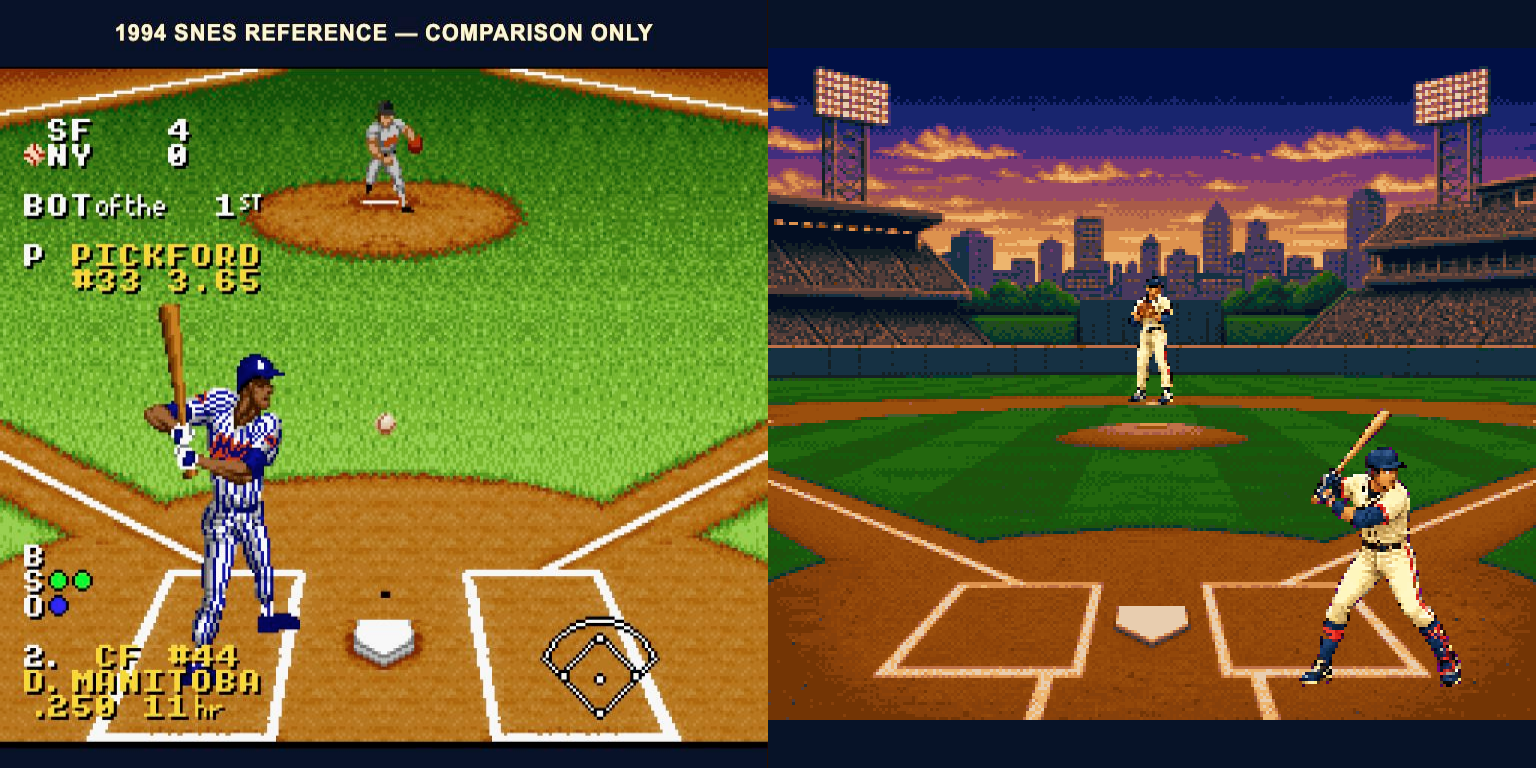
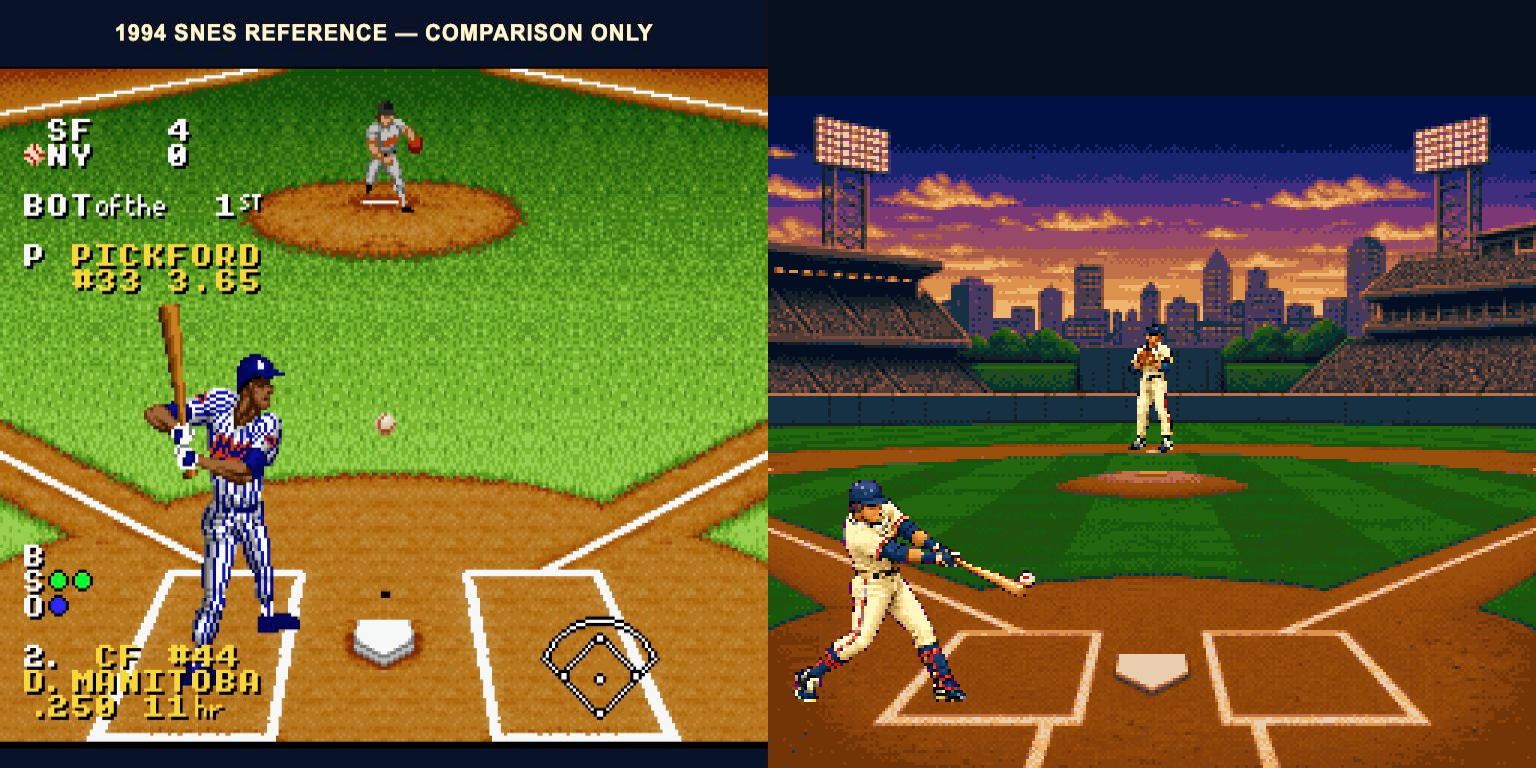
fix: align batter swing with pitch path

diff --git a/prototypes/diamond-dynasty/art-review.html b/prototypes/diamond-dynasty/art-review.html
@@ -74,7 +74,7 @@
       }
       .field-batter {
         position: absolute;
-        left: 52.734375%;
+        left: 0.390625%;
         top: 47.321429%;
         width: 46.875%;
         height: 50%;
@@ -187,7 +187,7 @@
       <section class="views" aria-label="Synchronized batter animation views">
         <figure>
           <div class="field-stage">
-            <img class="field-batter" data-live-batter src="./art/sprites/batter-0.png" alt="Animated side-back batter facing the pitcher">
+            <img class="field-batter" data-live-batter src="./art/sprites/batter-0.png" alt="Animated right-handed batter in the left box facing the pitcher">
           </div>
           <figcaption>TIGHT HOME-PLATE CAMERA — FACING THE PITCHER</figcaption>
         </figure>
@@ -221,6 +221,6 @@
 
       <p class="timing-note">Game speed uses the live swing thresholds: 70 ms load, 65 ms stride, 60 ms plant, 60 ms swing, 60 ms contact, 70 ms extension, then a readable high-finish hold before reset.</p>
     </main>
-    <script type="module" src="./src/animation-review.mjs?v=3"></script>
+    <script type="module" src="./src/animation-review.mjs?v=4"></script>
   </body>
 </html>

diff --git a/prototypes/diamond-dynasty/index.html b/prototypes/diamond-dynasty/index.html
@@ -8,7 +8,7 @@ Date: 2026-08-20 -->
     <meta name="viewport" content="width=device-width, initial-scale=1.0, viewport-fit=cover" />
     <meta name="theme-color" content="#071328" />
     <title>Diamond Dynasty '94 — Prototype</title>
-    <link rel="stylesheet" href="./style.css?v=sprite-art-v7" />
+    <link rel="stylesheet" href="./style.css?v=sprite-art-v8" />
   </head>
   <body>
     <main class="cabinet" aria-labelledby="game-title">
@@ -52,6 +52,6 @@ Date: 2026-08-20 -->
         Original code, characters, venue, sound synthesis, and pixel treatment. No MLB, Nintendo, or licensed game assets.
       </footer>
     </main>
-    <script type="module" src="./src/game.mjs?v=sprite-art-v7"></script>
+    <script type="module" src="./src/game.mjs?v=sprite-art-v8"></script>
   </body>
 </html>

diff --git a/prototypes/diamond-dynasty/README.md b/prototypes/diamond-dynasty/README.md
@@ -47,8 +47,9 @@ node --test tests/*.test.mjs
 - Timing-plus-location contact model with foul, out, single, double, triple,
   and home-run outcomes
 - Nine-state original side/back three-quarter batter animation in a tight
-  home-plate camera, staged beside the right side of the plate and facing the
-  pitcher, plus a seven-state pitcher delivery
+  home-plate camera, with the right-facing hitter staged in the left batter's
+  box so his stride and barrel travel through the incoming pitch, plus a
+  seven-state pitcher delivery
 - Dedicated batter animation review with synchronized field/close views and a
   reproducible looping GIF
 - Original synthesized arcade sound cues

diff --git a/prototypes/diamond-dynasty/CHARACTER_ART_COMPARISON.md b/prototypes/diamond-dynasty/CHARACTER_ART_COMPARISON.md
@@ -58,8 +58,8 @@ animation readability, not a trace or one-to-one replica.
   controlled reset, with the high finish held before reset
 - Pitcher: set, leg lift, balance, stride, release, follow-through, recover
 - Gameplay staging: a large side/back three-quarter batter stands beside the
-  right batter's box, faces the smaller downfield pitcher, and completes the
-  swing; the catcher is omitted
+  left batter's box, faces the smaller downfield pitcher, and carries the bat
+  through the plate into a held finish; the catcher is omitted
 
 ## Concept-art pass
 
